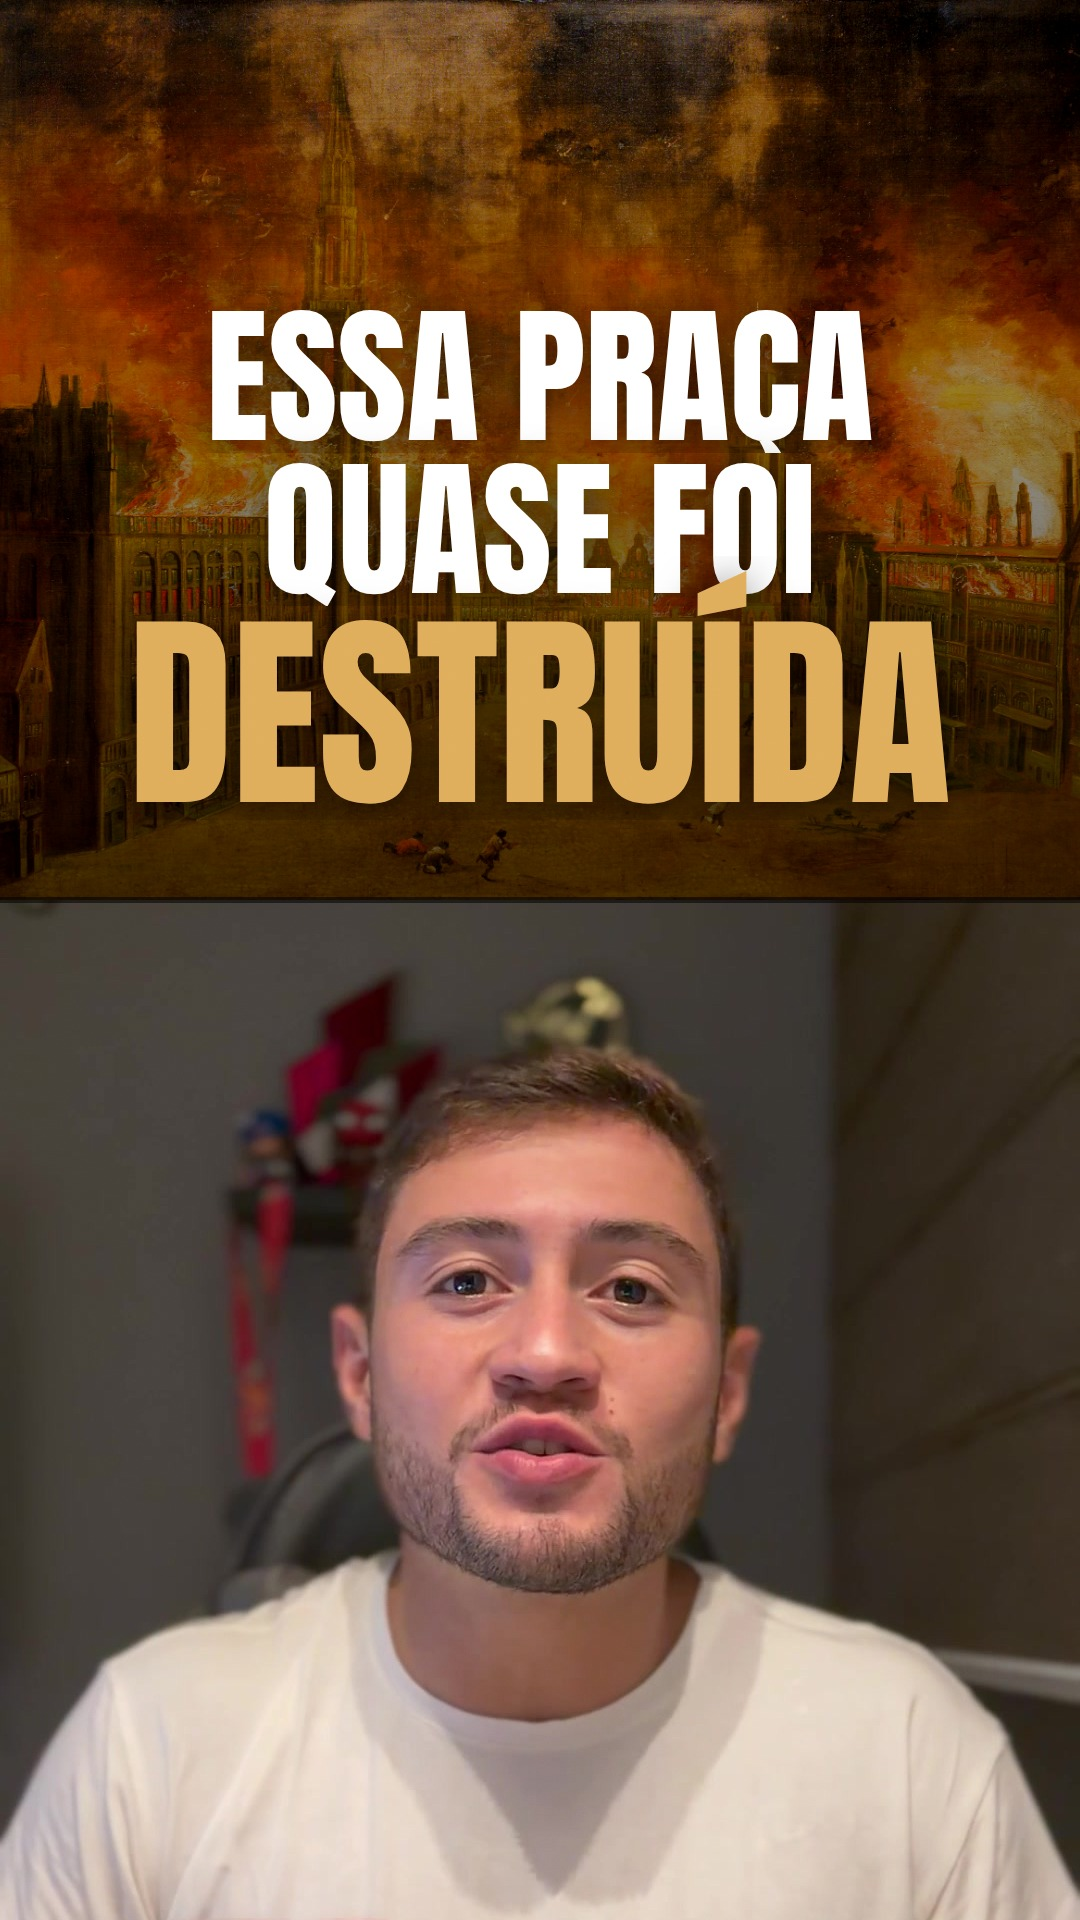
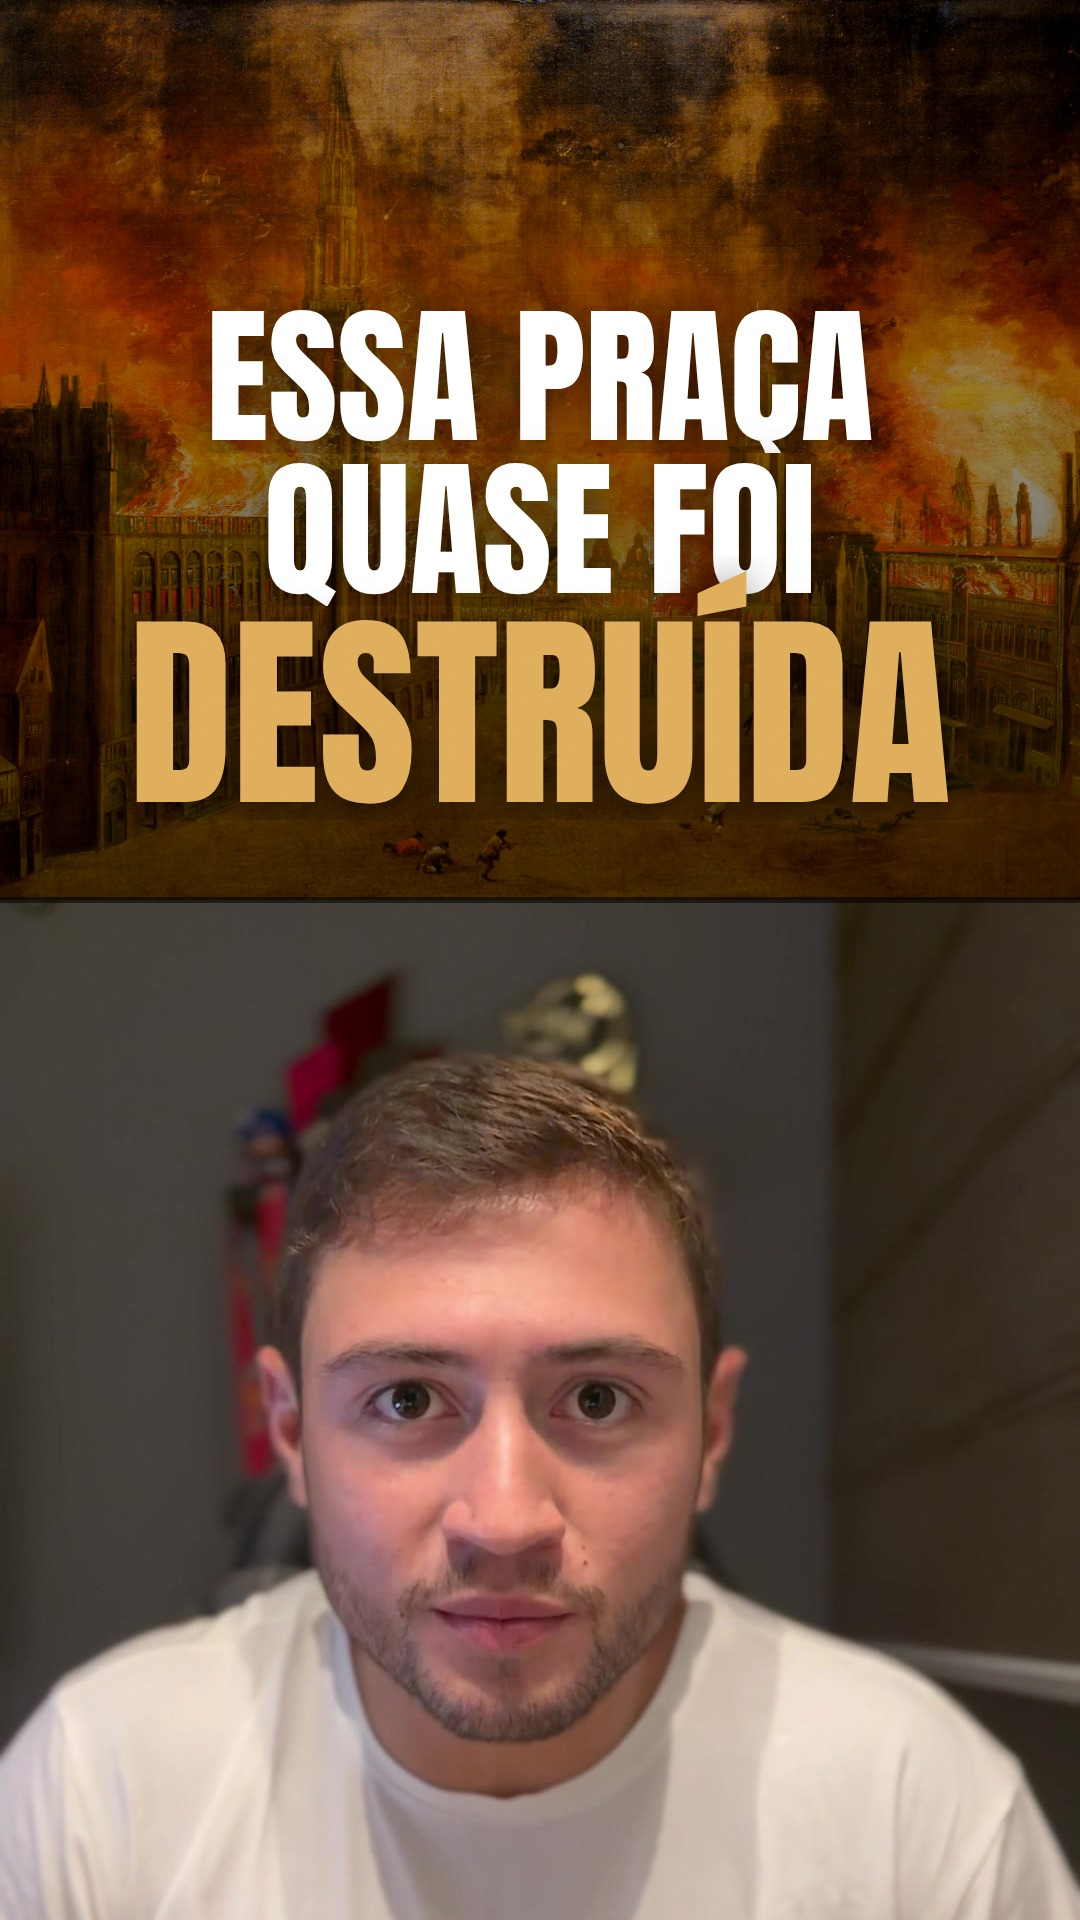
Reel Grand-Place REV2: legendas sem fontes com CTA do vídeo de sábado no YouTube e capas por plataforma
- legenda_post.md: Instagram, TikTok e Shorts sem créditos; CTA único = esquenta do vídeo de Bruxelas no YouTube (sábado)
- rev2/capas/: Instagram (recorte 3:4), TikTok e Shorts (faixa central; Shorts em 2160 × 3840) — scripts/capas.py
- Capa da REV2 corrigida: o Diego no quadro de 5,0 s (boca fechada), não mais falando

Claude-Session: https://claude.ai/code/session_01TJN9ntbtRAFXUyjXunJw8h

Changed region(s): [[0.2139, 0.5312, 1.0, 1.0], [0.0, 0.8438, 0.1833, 1.0]]

diff --git a/reels/bruxelas-grand-place/scripts/capas.py b/reels/bruxelas-grand-place/scripts/capas.py
@@ -1,0 +1,29 @@
+"""Capas do Reel para as 3 plataformas (1080 × 1920, ou 2160 × 3840 no Shorts), com o Diego (quadro de _tmp/capa_quadro.txt
+no public/fala.mp4) embaixo e a pintura do incêndio de 1695 com o gancho em cima.
+- instagram: título e rosto dentro do recorte 3:4 do perfil (centro de 1080 × 1440, y 240–1680)
+- tiktok e shorts: título e rosto na faixa central (y ≈ 420–1500), que sobrevive também a um recorte quadrado do perfil
+  (o Diego sobe ≈ 190 px: rostoY 880 em vez de 690)
+Uso (de dentro de reels/bruxelas-grand-place/): REV=rev2 python3 scripts/capas.py"""
+import json, os, subprocess
+AQUI = os.path.dirname(os.path.dirname(os.path.abspath(__file__))); os.chdir(AQUI)
+REV = os.environ.get("REV", "rev2")
+REMOTION = os.path.normpath(os.path.join(AQUI, "..", "..", "design-system", "remotion"))
+CHROME = "/opt/pw-browsers/chromium_headless_shell-1243/chrome-headless-shell-linux64/chrome-headless-shell"
+AMBAR = "#E0AE5C"
+t = float(open("_tmp/capa_quadro.txt").read())
+subprocess.run(["ffmpeg", "-v", "error", "-y", "-ss", f"{t}", "-i", "public/fala.mp4", "-frames:v", "1", "-q:v", "2", "public/capa_quadro.jpg"], check=True)
+linhas = lambda a, b: [{"texto": "ESSA PRAÇA", "tam": a, "em": 0}, {"texto": "QUASE FOI", "tam": a, "em": 0}, {"texto": "DESTRUÍDA", "tam": b, "em": 0, "cor": AMBAR}]
+VARIANTES = {
+    "instagram": ({"centroY": 560, "costura": 900, "linhas": linhas(150, 210)}, 1),
+    "tiktok": ({"centroY": 690, "costura": 960, "linhas": linhas(130, 190), "rostoY": 880}, 1),
+    "shorts": ({"centroY": 690, "costura": 960, "linhas": linhas(130, 190), "rostoY": 880}, 2),
+}
+os.makedirs(f"{REV}/capas", exist_ok=True)
+for nome, (v, escala) in VARIANTES.items():
+    pr = dict({"rostoY": 690}, **v, foto="img/incendio.jpg", quadro="capa_quadro.jpg", filtro="saturate(1.08) contrast(1.08) brightness(0.78)", posicao="36% 50%")
+    json.dump(pr, open(f"_tmp/capa_{nome}.json", "w"), ensure_ascii=False)
+    out = os.path.join(AQUI, REV, "capas", f"capa_grand-place_{nome}.jpg")
+    subprocess.run(["npx", "remotion", "still", "src/index.ts", "CapaGrandPlace", out, f"--props={os.path.join(AQUI, '_tmp', f'capa_{nome}.json')}",
+                    f"--public-dir={os.path.join(AQUI, 'public')}", "--image-format=jpeg", "--jpeg-quality=92", f"--scale={escala}", "--log=error",
+                    f"--browser-executable={CHROME}"], cwd=REMOTION, check=True)
+    print(nome, out)

diff --git a/reels/bruxelas-grand-place/legenda_post.md b/reels/bruxelas-grand-place/legenda_post.md
@@ -1,18 +1,21 @@
-# Legenda do post · Reel da Grand-Place (Bruxelas)
+# Legenda do post · Reel da Grand-Place (Bruxelas) · REV2
 
-Fatos conferidos em 31/10/2026: bombardeio francês de 13 a 15 de agosto de 1695, sob o marechal de Villeroy; só a casca de pedra da Prefeitura e partes de outros prédios ficaram de pé; as guildas reconstruíram a praça em cerca de 4 anos; Patrimônio Mundial da UNESCO desde 1998 (Wikipedia, "Grand-Place"; site da cidade de Bruxelas, brussels.be/node/184; o Plano do bombardeio de 1695 traz as datas no título). Um CTA só (envio), o mesmo do meio do vídeo.
+Pedido do Diego (01/11/2026): sem fontes nem créditos na legenda, e o CTA da legenda avisa que o Reel é o **esquenta do vídeo de Bruxelas que sai no sábado no YouTube**. É o único CTA da legenda; as chamadas do próprio vídeo (envio no meio, seguir no fim) continuam.
+
+As imagens de 1695 são de domínio público ou CC0, então tirar o crédito não descumpre nenhuma licença (`docs/FORMATOS_REELS.md`, 8.6). Os créditos ficam registrados em `creditos.md`. Os fatos da legenda foram conferidos na REV1 (`rev1/QA_REV1.md`).
+
+Primeira linha = o gancho falado na REV2.
 
 ## Instagram
 
 ```
-Essa praça foi bombardeada e quase destruída. 💥
+Essa praça parece cenário de filme, mas quase foi destruída por completo. 💥
 
-Em agosto de 1695, tropas francesas bombardearam Bruxelas por três dias. Da Grand-Place sobrou pouco além da Prefeitura. Em uns 4 anos, as guildas reconstruíram tudo, e hoje ela é Patrimônio Mundial da UNESCO (desde 1998).
+Em agosto de 1695, tropas francesas bombardearam Bruxelas por três dias e quase toda a Grand-Place virou ruína. Em uns 4 anos, ela foi reconstruída, e desde 1998 é Patrimônio Mundial da UNESCO.
 
-Manda pra quem iria com você. 📍
+Isso foi só o esquenta: neste sábado sai o vídeo completo de Bruxelas no YouTube. 🎬
 
 📍 Grand-Place, Bruxelas, Bélgica
-Imagens de 1695 (domínio público): pintura do bombardeio, Museu da Cidade de Bruxelas; plano de Nicolas de Fer; desenhos de Augustin Coppens e gravura do Rijksmuseum (Wikimedia Commons).
 
 #bruxelas #grandplace #belgica #viagemeuropa #historia #primeirodia
 ```
@@ -20,9 +23,7 @@ Imagens de 1695 (domínio público): pintura do bombardeio, Museu da Cidade de B
 ## TikTok
 
 ```
-Essa praça foi bombardeada e quase destruída 💥 Hoje é Patrimônio Mundial da UNESCO. Manda pra quem iria com você 📍 Grand-Place, Bruxelas
-
-Imagens de 1695 em domínio público (Wikimedia Commons).
+Essa praça quase foi destruída por completo 💥 Hoje é Patrimônio Mundial da UNESCO. Isso foi só o esquenta: neste sábado sai o vídeo completo de Bruxelas no YouTube 🎬 📍 Grand-Place, Bruxelas
 
 #bruxelas #grandplace #belgica #europa #historia
 ```
@@ -32,15 +33,29 @@ Imagens de 1695 em domínio público (Wikimedia Commons).
 Título (≤ 100 caracteres):
 
 ```
-Essa praça foi bombardeada e quase destruída 💥 Grand-Place, Bruxelas
+Essa praça quase foi destruída 💥 Grand-Place, Bruxelas
 ```
 
 Descrição:
 
 ```
 Em 1695, tropas francesas bombardearam Bruxelas e quase destruíram a Grand-Place. Hoje ela é Patrimônio Mundial da UNESCO.
-Imagens de 1695 em domínio público (Wikimedia Commons).
+Isso foi só o esquenta: neste sábado sai aqui no canal o vídeo completo de Bruxelas. 🎬
 #bruxelas #grandplace #belgica
 ```
 
-Os limites de caracteres e as hashtags seguem o guia do formato (`docs/FORMATOS_REELS.md`, 9.6), conferido em 22/10/2026: reconfirmar ao postar.
+**No sábado, depois que o vídeo longo sair:** no YouTube Studio, abra este Short → "Vídeo relacionado" → escolha o vídeo de Bruxelas. O link aparece embaixo do Short e leva direto para o vídeo.
+
+## Capas
+
+| Plataforma | Arquivo | Onde o texto e o rosto ficam |
+|---|---|---|
+| Instagram | `rev2/capas/capa_grand-place_instagram.jpg` (1080 × 1920) | Dentro do recorte 3:4 do perfil (centro de 1080 × 1440) |
+| TikTok | `rev2/capas/capa_grand-place_tiktok.jpg` (1080 × 1920) | Na faixa central (y ≈ 420–1500), que sobrevive também a um recorte quadrado do perfil |
+| YouTube Shorts | `rev2/capas/capa_grand-place_shorts.jpg` (2160 × 3840) | Igual à do TikTok, no tamanho que o YouTube recomenda |
+
+**Shorts:** em 2026, enviar uma imagem própria como capa de Short só aparece para parte dos canais do Programa de Parcerias, e só no computador (YouTube Studio). Se o botão "Fazer upload da miniatura" não aparecer, escolha no app o quadro de **4,6 s** do vídeo: a praça em chamas com "QUASE FOI DESTRUÍDA POR COMPLETO" e você embaixo.
+
+Recortes conferidos na web em 01/11/2026, em fontes de terceiros (não da Meta, do TikTok nem do Google): o 3:4 do Instagram é consistente entre as fontes; o recorte do TikTok e o do perfil do Shorts divergem, por isso as duas capas usam a faixa central. Confira no celular depois de postar.
+
+Hashtags e limites de caracteres seguem o guia do formato (`docs/FORMATOS_REELS.md`, 9.6).

diff --git a/reels/bruxelas-grand-place/rev2/QA_REV2.md b/reels/bruxelas-grand-place/rev2/QA_REV2.md
@@ -12,7 +12,8 @@
 |---|---|
 | `reel_grand-place_rev2.mp4` | Final: 1080 × 1920, 30 qps, H.264 + AAC 48 kHz, **40,72 s**, **−14,1 LUFS**, pico **−1,4 dBTP** |
 | `reel_grand-place_rev2_previa.mp4` | Prévia leve (540 × 960) |
-| `capa_grand-place_rev2.jpg` | Capa (igual à da REV1) |
+| `capa_grand-place_rev2.jpg` | Capa (a mesma da do Instagram). O Diego aparece no quadro de 5,0 s da voz nova: olhar sério, boca fechada, o mesmo momento da REV1 |
+| `capas/` | Capas por plataforma: Instagram (1080 × 1920, recorte 3:4), TikTok (1080 × 1920, faixa central) e Shorts (2160 × 3840, faixa central). Script: `scripts/capas.py` |
 | `qa_frames/` | Um quadro por cena · um quadro por segundo |
 
 ## O que mudou
@@ -52,6 +53,8 @@
 | Pico do `keen` | 4,34 s + 0,96 s = 5,30 s, o quadro do corte ✅ |
 | Legendas | 42 grupos, 1 linha; a maior tem 808 px (x 136–944) ✅ |
 | Transcrição da voz final | Igual ao texto das legendas. O Whisper agora ouve "**pra** aquela pessoa" e "**pra** esse lugar" (confiança 0,46; na REV1 e na tomada bruta ouviu "para", 0,81–0,97). A legenda diz "para" |
+
+Legendas do post (Instagram, TikTok e Shorts): `../legenda_post.md`, sem fontes e com o CTA do vídeo de Bruxelas que sai no sábado no YouTube.
 
 ## Conferir no ouvido
 
